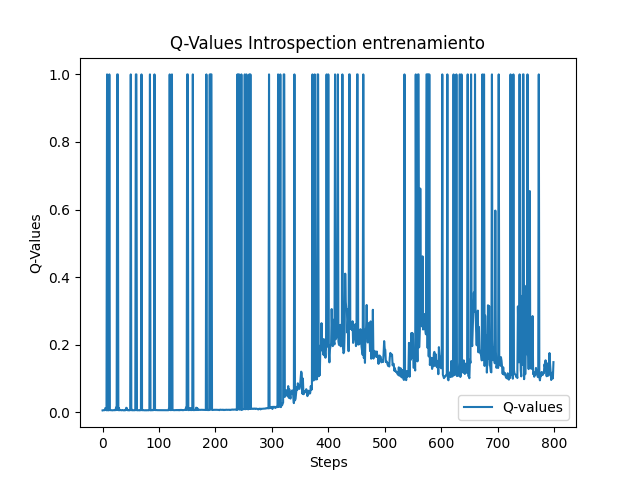
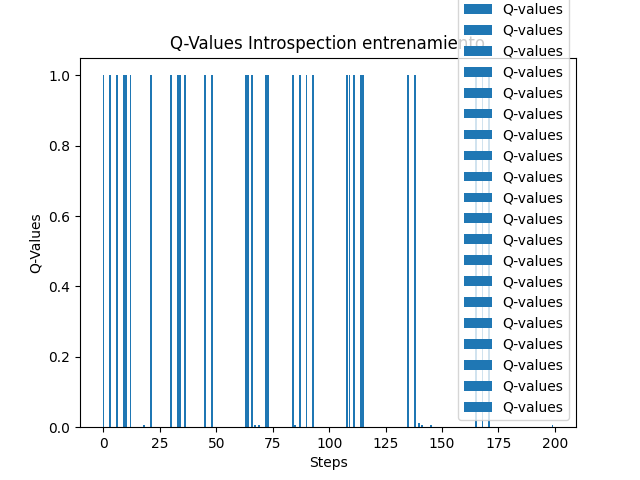
Feat: Se agrega nueva funcionalidad que guarda los q-values en un archivo txt

diff --git a/runGame.py b/runGame.py
@@ -1,6 +1,8 @@
 import gym
 import matplotlib.pyplot as plt
 import numpy as np
+import pandas as pd
+
 from ChefsHatGym.Agents import Agent_Introspection
 from ChefsHatGym.Agents import Agent_Naive_Random
 from ChefsHatGym.Agents import PPO
@@ -14,8 +16,7 @@ rew = []
 epsilon = []
 qvaluesAux = []
 gamma = 0.9
-
-q_values_file = open("qValues.txt", "w")
+height = 200
 
 """Game parameters"""
 gameType = ChefsHatEnv.GAMETYPE["MATCHES"]
@@ -41,7 +42,7 @@ saveDirectory = "examples/"
 verbose = False
 saveLog = False
 saveDataset = False
-episodes = 50
+episodes = 1
 
 """Setup environment"""
 env = gym.make('chefshat-v0')  # starting the game Environment
@@ -57,9 +58,10 @@ for a in range(episodes):
 
         currentPlayer = playersAgents[env.currentPlayer]
         observations = env.getObservation()
-        action = currentPlayer.getAction(observations)
+        action = currentPlayer.getAction(observations) # Esta funcion retornaria los valores Q
 
         info = {"validAction": False}
+
 
         while not info["validAction"]:
 
@@ -67,6 +69,10 @@ for a in range(episodes):
 
         agent1.actionUpdate(observations, nextobs, action, reward, info)
         rew.append(reward)
+        Qvalues[0,(np.argmax(action))] = np.max(action)
+
+        with open("qValues.txt", 'a') as val_file:
+            val_file.write(','.join(map(str, action)) + "\n")
 
         if isMatchOver:
 
@@ -76,7 +82,6 @@ for a in range(episodes):
                 qvaluesAux.append(b)
                 epsilon.append(agent1.epsilon)
 
-
             print("-------------")
             print("Match:" + str(info["matches"]))
             print("Score:" + str(info["score"]))
@@ -85,11 +90,15 @@ for a in range(episodes):
 
 #agent1.pSuccess(Qvalues, rew)
 
-for row in qvaluesAux:
-    np.savetxt(q_values_file, row)
-q_values_file.close()
+df = pd.read_csv('qValues.txt', header=None)
 
-plt.plot(qvaluesAux, Label='Q-values')
+print(df)
+print(df.loc[[0]])
+print(df.shape[0])
+print(df.shape[1])
+
+
+plt.bar(list(range(height)), Qvalues[0], Label='Q-values')
 plt.title("Q-Values Introspection entrenamiento")
 plt.xlabel('Steps')
 plt.ylabel('Q-Values')
